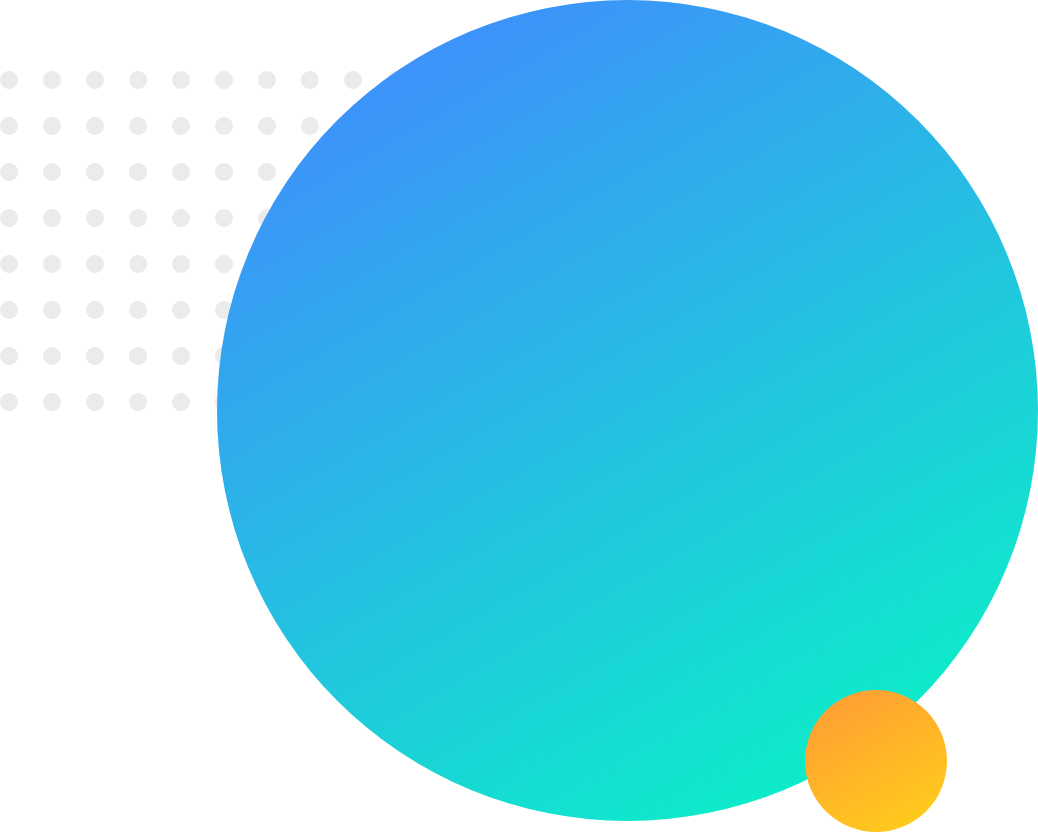
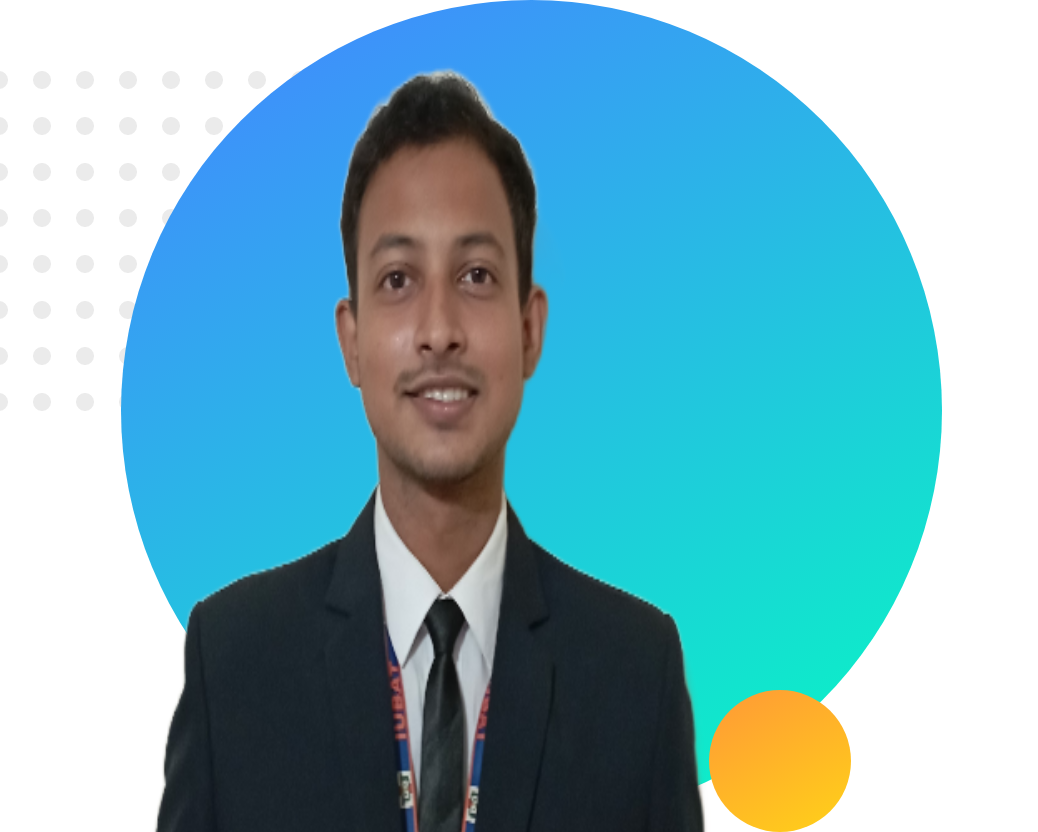
done the demo

diff --git a/index.html b/index.html
@@ -1,0 +1,52 @@
+<!DOCTYPE html>
+<html lang="en">
+<head>
+    <meta charset="UTF-8">
+    <meta name="viewport" content="width=device-width, initial-scale=1.0">
+    <title>Shopno Web Developer</title>
+    <link rel="stylesheet" href="style.css">
+    <link rel="preconnect" href="https://fonts.googleapis.com">
+<link rel="preconnect" href="https://fonts.gstatic.com" crossorigin>
+<link href="https://fonts.googleapis.com/css2?family=Roboto+Condensed&display=swap" rel="stylesheet">
+</head>
+<body>
+    <section class="top">
+        <div class="half-width">
+            <h1>Welcome to</h1>
+            <h1><SPAN class="color">Shopno</SPAN> Website</h1>
+            <h3>World Class Professional web Developer</h3>
+            <p>Lorem ipsum dolor sit amet consectetur adipisicing elit. Reprehenderit nisi aliquid quis delectus veniam ipsam iure et nemo, perferendis velit.</p>
+            <button class="hire"><a target="_blank" href="#">Hire Me</a></button>
+        </div>
+        <div class="half-width">
+            <img src="images/image 10.png" alt="image">
+        </div>
+       
+    </section>
+    <section class="middle">
+        <div class="half-width">
+            <img src="images/image 10.png" alt="image">
+        </div>
+        <div class="half-width">
+            <h1>Dream Big</h1>
+            <h3>Become a Web Developer</h3>
+            <p>I have already learn the basic HTML and CSS. I can build any Simple Website.I can even teach my younger brother how to make a simple Website.My goal is to build 3 web sites and learn the avance topics</p>
+            <button class="hire"><a target="_blank" href="#">Download Resume</a></button>
+        </div>
+    </section>
+    <section class="exp">
+        <h2>Experiences</h2>
+        <div class="half-width single" id="pp">
+            <h2>Full Stack web Developer</h2>
+            <h3 class="color">2021 - present | pro level web</h3>
+            <p>Lorem ipsum dolor sit amet, consectetur adipisicing elit. Asperiores suscipit sapiente laudantium repellat ullam sit harum nulla quam. Tempora, natus?</p>
+
+        </div>
+        <div class="half-width single" id="ss">
+            <h2>Baby Web Developer</h2>
+            <h3 class="color">2021 - present | intermediate level web</h3>
+            <p>Lorem ipsum dolor sit amet consectetur adipisicing elit. Dicta nobis voluptas dolores est nulla tenetur nihil quia reiciendis inventore optio.</p>
+        </div>
+    </section>
+</body>
+</html>

diff --git a/style.css b/style.css
@@ -1,0 +1,66 @@
+body{
+    font-family: 'Roboto Condensed', sans-serif;
+    margin: 0px;
+}
+
+h1{
+    font-size: 50px;
+}
+.color{
+    color: orange;
+}
+.half-width{
+    width: 40%;
+    float:left;
+    margin-left: 5%;
+    padding-left: 2%;
+}
+.half-width img{
+    width: 100%;
+}
+.top{
+    background-image: url(images/top-banner.png);
+    background-repeat: no-repeat;
+  
+   
+}
+section{
+    height: 500px;
+}
+.half-width .hire{
+    background-image: linear-gradient(lightsalmon,tomato);
+    border: orange;
+    border-radius: 5px;
+   padding: 10px 20px;
+   color: white;
+   font-weight: 700; 
+    
+}
+section .half-width .hire a{
+    text-decoration: none;
+    color: white;
+}
+.middle{
+    background-image: url(images/dream-bg.png);
+    background-repeat: no-repeat;
+    background-position: right;
+}
+.single{
+    box-shadow: 10px 10px 40px gray;
+    height: 80%;
+}
+.exp{
+    background-image: url(images/exp-bg.png);
+    background-repeat: no-repeat;
+    background-position: left;
+}
+#ss{
+    border-left: 7px solid;
+    border-image: linear-gradient(navy,skyblue);
+    border-image-slice: 1;
+}
+#pp{
+    border-left: 7px solid;
+    border-image: linear-gradient(lightsalmon,tomato);
+    border-image-slice: 1;
+}
